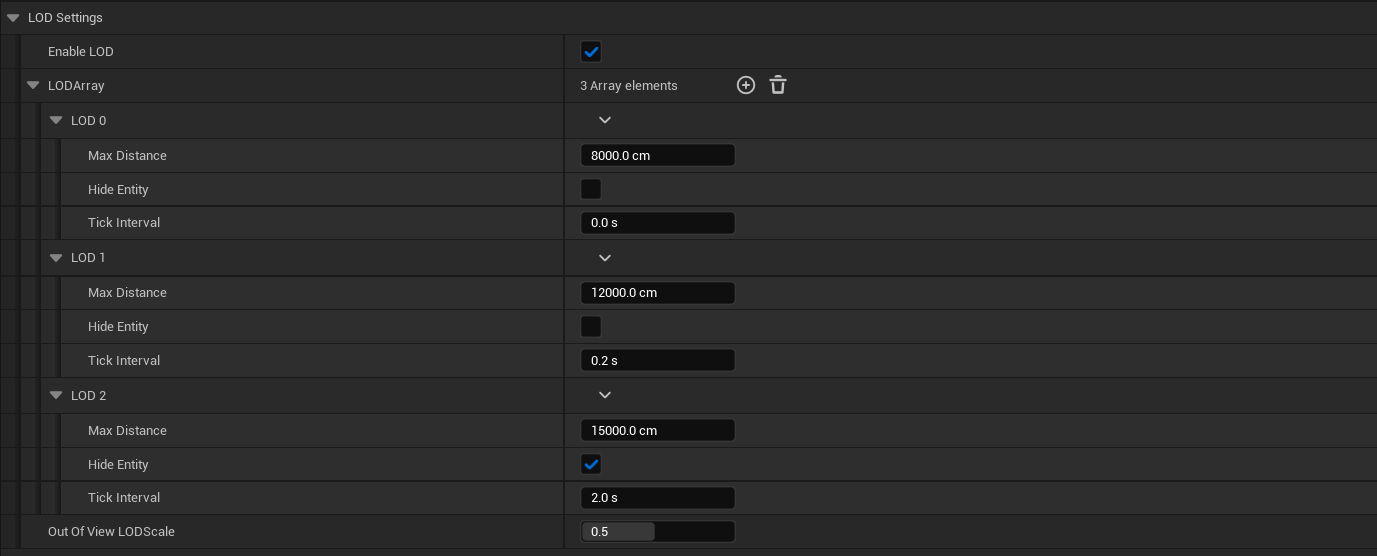
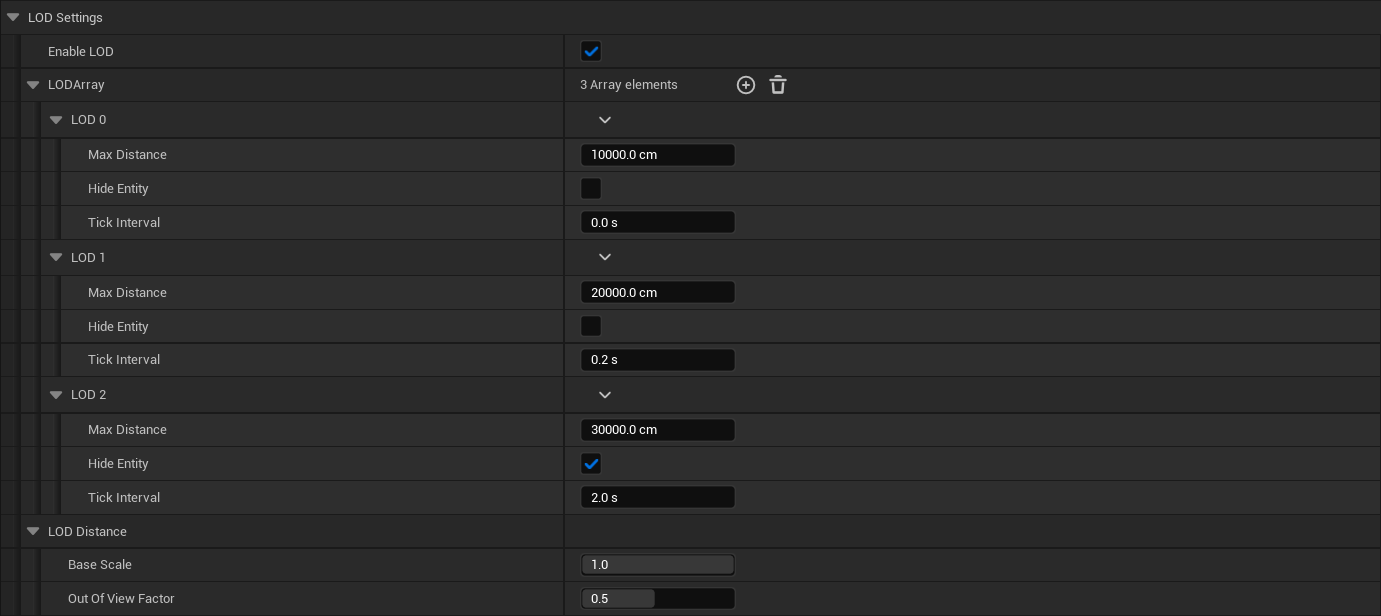
添加动态修改LOD

diff --git a/README.md b/README.md
@@ -125,6 +125,10 @@ Copyright FirePlume, All Rights Reserved. Email: fireplume@126.com
 
 10、通过[项目设置](#fpspawnersystem-projectsettings)对[实体LOD](#fpspawnersystem_entitylod)进行全局配置。
 如果要对单个实体的LOD覆盖，可以在[实体数据](#fpspawnersystem_entitydata)中设置`bLODArrayOverrides = true`，为特定实体设置独立的LOD行为。<br>
+可以通过[函数库](#fpspawnersystem-functionlibrary)中的函数`SetLODDistance()`或`GetLODDistance()`分别动态设置/获取LOD距离缩放比例。
+
+![FPSpawnerSystem_QuickStart_6](https://github.com/FirePlume126/FP_SpawnerSystem/blob/main/Images/FPSpawnerSystem_QuickStart_6.png)
+
 [实体LOD](#fpspawnersystem_entitylod)仅影响本地客户端性能。如需提升整体游戏性能，建议在[实体数据管理器](#fpspawnersystem_entitydatamanager)的[生成器设置](#fpspawnersystem_spawnersettings)中合理配置参数。
 适当调整可在保证视觉体验的同时显著优化性能，但可能会影响加载范围或响应速度。
 
@@ -925,13 +929,16 @@ public:
 |MaxDistance|`float`|LOD的最大距离|
 |bHideEntity|`bool`|是否隐藏实体|
 |TickInterval|`float`|此LOD的Tick间距，用来修改Actor和组件的Tick间距|
-|OutOfViewLODScale|`float`|视野外的LOD距离比例，设为1时不考虑视角方向|
+|BaseScale|`float`|基础LOD距离缩放比例|
+|OutOfViewFactor|`float`|视野外LOD距离缩放因子(在基础比例上额外缩放)。等于1时不计算视野角度|
 
 2、编辑器自定义，对`FFPSpawnerLODArray`进行了编辑器定制，确保用户操作更直观；`LOD 0`属性锁定，防止修改`bHideEntity`和`TickInterval`；排序规则，保证LOD数组按照距离递增顺序排列；
 
 3、如果要对单个实体的LOD覆盖，可以在[实体数据](#fpspawnersystem_entitydata)中开启LOD覆盖功能，为特定实体设置独立的LOD行为
 
-4、通过接口获取LOD状态，可以通过[实体接口](#fpspawnersystem_entityinterface)的`ReceiveLODIndex()`函数，实时获取当前实体所处的LOD索引。
+4、可以通过[函数库](#fpspawnersystem-functionlibrary)中的函数`SetLODDistance()`或`GetLODDistance()`分别动态设置/获取LOD距离缩放比例。
+
+5、通过接口获取LOD状态，可以通过[实体接口](#fpspawnersystem_entityinterface)的`ReceiveLODIndex()`函数，实时获取当前实体所处的LOD索引。
 
 <a name="fpspawnersystem-runtimeprojectsettings"></a>
 #### 运行时数据管理类
@@ -1243,9 +1250,9 @@ bool bEnableLOD = true;
 UPROPERTY(config, EditAnywhere, meta = (EditCondition = "bEnableLOD"), Category = "Config|LOD Settings")
 FFPSpawnerLODArray LODArray = FFPSpawnerLODArray(false);
 
-// 视野外的LOD距离比例，设为1时不考虑视角方向
-UPROPERTY(config, EditAnywhere, meta = (EditCondition = "bEnableLOD", ClampMin = 0.0, ClampMax = 1.0), Category = "Config|LOD Settings")
-float OutOfViewLODScale = 0.5f;
+// LOD距离设置
+UPROPERTY(config, EditAnywhere, meta = (EditCondition = "bEnableLOD"), DisplayName = "LOD Distance", Category = "Config|LOD Settings")
+FFPSpawnerLODDistance LODDistance;
 
 #if WITH_EDITORONLY_DATA
 
@@ -1372,6 +1379,23 @@ public:
 	UPROPERTY(EditAnywhere, BlueprintReadWrite, meta = (ClampMin = 1), Category = "FFPSpawner")
 	int32 MaxMeshNumber = 10000;
 };
+
+// LOD距离设置
+USTRUCT(BlueprintType)
+struct FFPSpawnerLODDistance
+{
+	GENERATED_BODY()
+
+public:
+
+	// 基础LOD距离缩放比例
+	UPROPERTY(EditAnywhere, BlueprintReadWrite, meta = (ClampMin = 0.01, ClampMax = 1.0), Category = "FFPSpawner")
+	float BaseScale = 1.0f;
+
+	// 视野外LOD距离缩放因子(在基础比例上额外缩放)。等于1时不计算视野角度
+	UPROPERTY(EditAnywhere, BlueprintReadWrite, meta = (ClampMin = 0.0, ClampMax = 1.0), Category = "FFPSpawner")
+	float OutOfViewFactor = 0.5f;
+};
 ```
 
 <a name="fpspawnersystem-functionlibrary"></a>
@@ -1421,4 +1445,13 @@ static FFPSpawnerEntityHandle GetEntityHandle(AActor* InEntity);
 // @param InEntity 生成器生成的实体
 UFUNCTION(BlueprintPure, Category = "FPSpawner")
 static UFPSpawnerEntityAttributeSet* GetEntityAttributeSet(AActor* InEntity);
+
+// 设置LOD距离，会保存到配置文件
+// @param NewLODDistance LOD距离
+UFUNCTION(BlueprintCallable, Category = "FPSpawner")
+static void SetLODDistance(const FFPSpawnerLODDistance& NewLODDistance);
+
+// 获取LOD距离
+UFUNCTION(BlueprintPure, Category = "FPSpawner")
+static FFPSpawnerLODDistance GetLODDistance();
 ```
